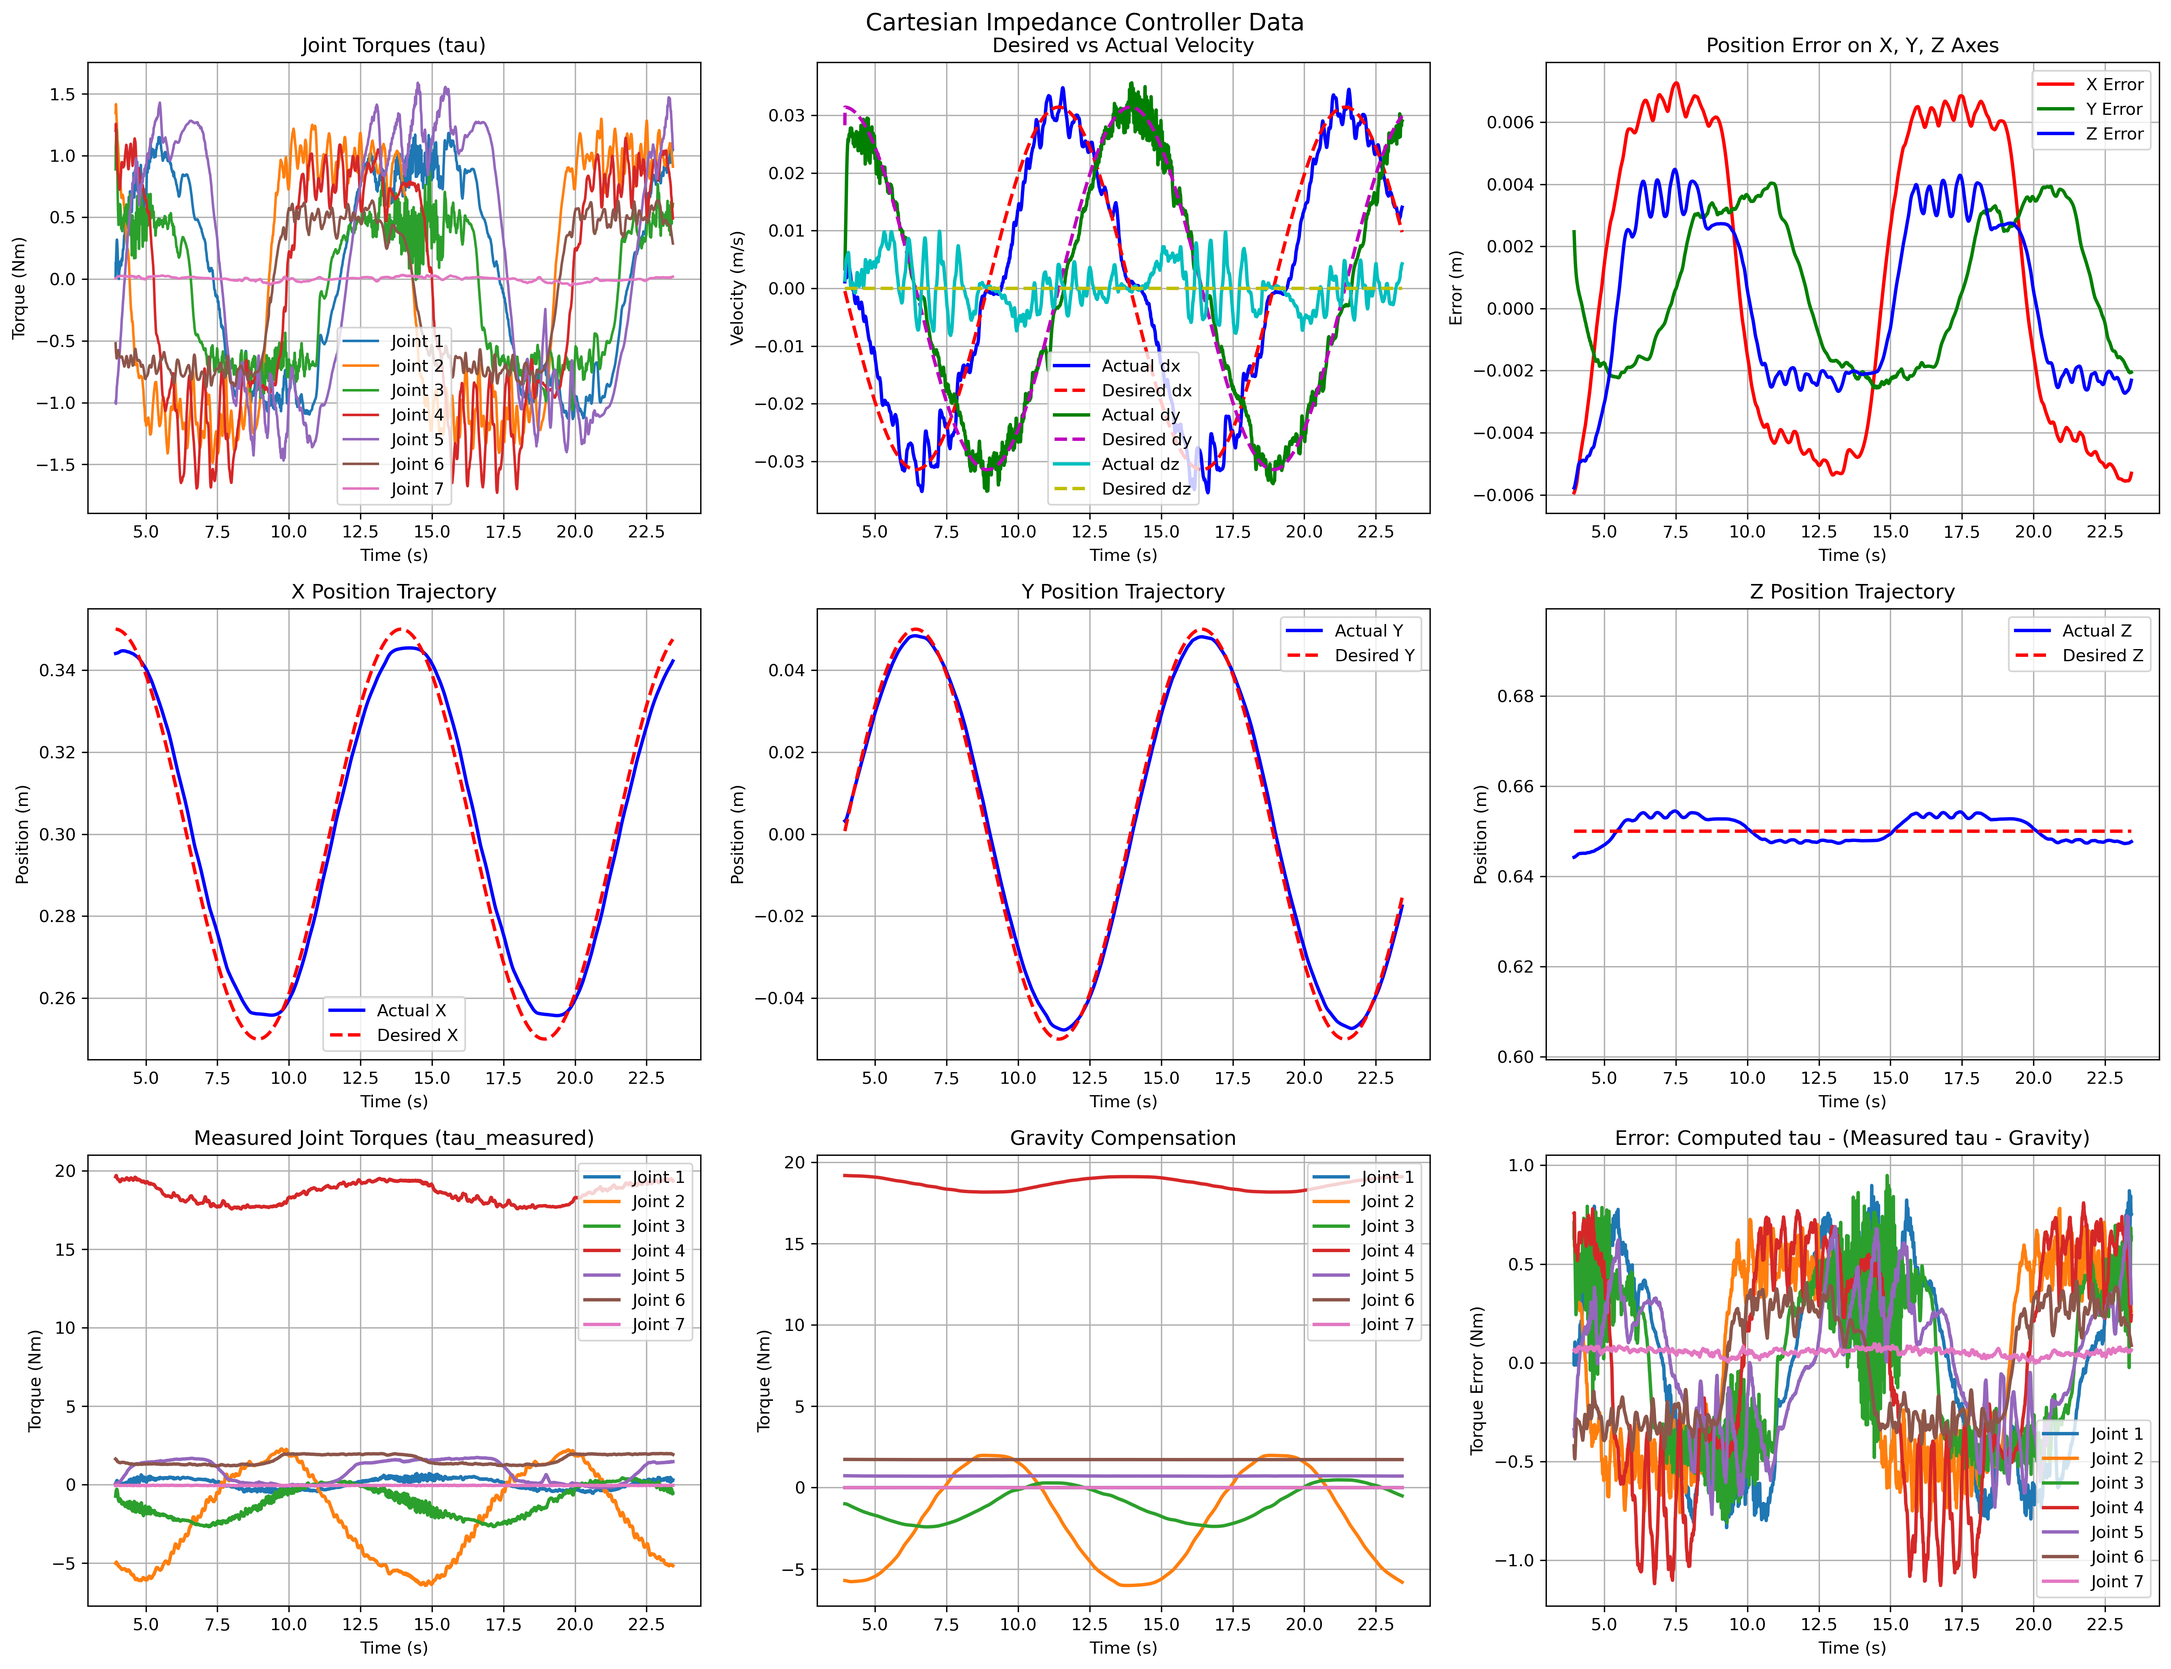
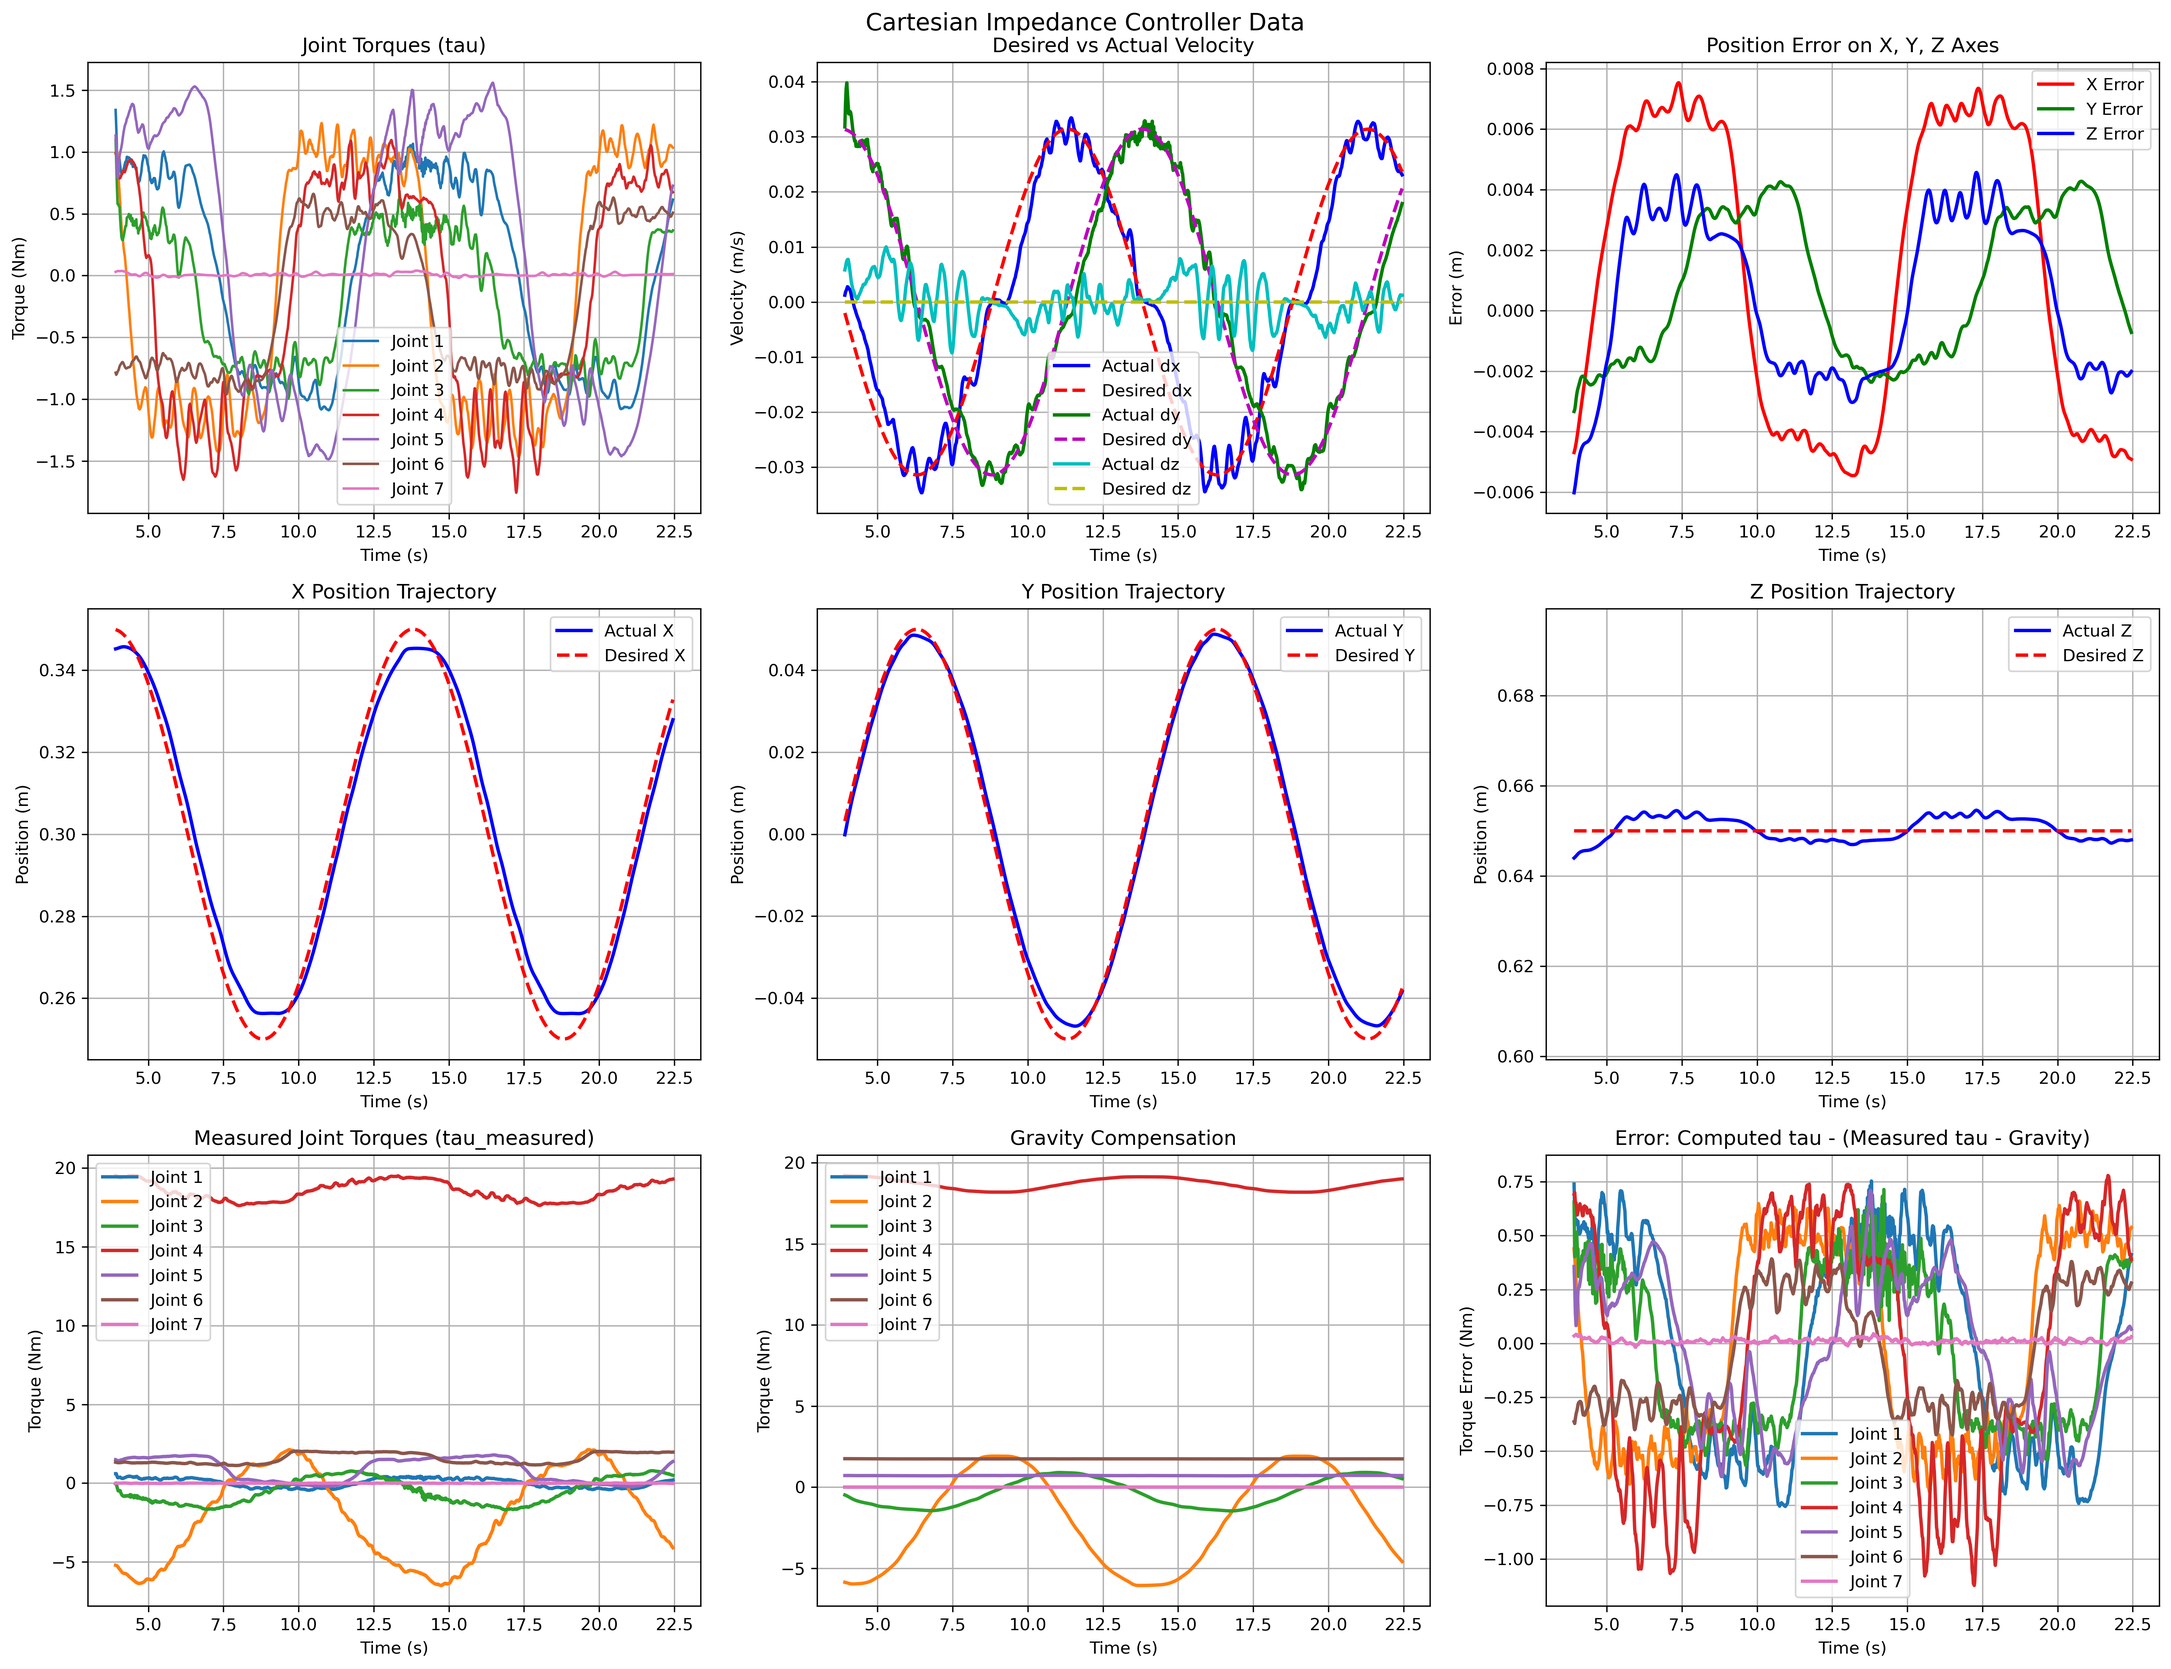
2025/12/03 debug finished, first demo completed

diff --git a/new_structure/py_controllers/py_controllers/gp_server.py b/new_structure/py_controllers/py_controllers/gp_server.py
@@ -69,12 +69,12 @@ class GPServer(Node):
             # =====================================================
             # 1) 当前预测
             # =====================================================
-            y_hat_current = self._gp_predict_vector(q, dq, ddq)
+            y_hat_current = self._gp_predict_vector(q, dq, ddq, tau, update = True)
 
             # =====================================================
             # 2) 主未来预测
             # =====================================================
-            y_hat_future = self._gp_predict_vector(q, dq_f, ddq_f)
+            y_hat_future = self._gp_predict_vector(q, dq_f, ddq_f, tau, update = False)
 
             # =====================================================
             # 3) 多采样 future 预测（逐个）
@@ -96,9 +96,9 @@ class GPServer(Node):
             # =====================================================
             # 设置 response
             # =====================================================
-            response.y_hat_current = y_hat_current.tolist()
+            response.y_hat_current = y_hat_future.tolist()
             response.y_hat_future  = y_hat_future.tolist()
-            response.y_hat_future_agg = y_future_agg.tolist()
+            response.y_hat_future_agg = y_hat_future.tolist()
 
         except Exception as e:
             self.get_logger().error(f"[GPServer] callback error: {e}")
@@ -113,9 +113,10 @@ class GPServer(Node):
     # ============================================================
     #  单个向量预测（不更新）
     # ============================================================
-    def _gp_predict_vector(self, q, dq, ddq):
+    def _gp_predict_vector(self, q, dq, ddq, tau_residual=None, update=False):
         """
-        对 7 个关节做预测（不做 online update）
+        对 7 个关节做预测
+        如果 do_update=True，则根据 tau_residual 对 "当前中心点" 做 online update
         """
         if not self.gp_ready:
             return np.zeros(7, dtype=float)
@@ -131,7 +132,7 @@ class GPServer(Node):
             Xm, Xs, Ym, Ys = pack["stats"]
             x_dim = pack["x_dim"]
 
-            # ---- 构建 x ----
+            # -------- 输入构造 ----------
             if x_dim == 3:
                 x = np.array([q[j-1], dq[j-1], ddq[j-1]], dtype=np.float32)
             elif x_dim == 2:
@@ -143,17 +144,38 @@ class GPServer(Node):
             Xs = np.asarray(Xs, dtype=np.float32)
             Ym = float(np.asarray(Ym)[0])
             Ys = float(np.asarray(Ys)[0])
+            Ys = Ys if Ys != 0 else 1.0
 
+            # -------- 标准化 ----------
             x_std = (x - Xm[:x_dim]) / Xs[:x_dim]
 
-            # ---- GP 预测 ----
-            mu_s, _ = model.predict(x_std.astype(np.float32))
+            # -------- GP 预测 ----------
+            mu_s, var_s = model.predict(x_std.astype(np.float32))
             mu = float(mu_s[0])
 
-            # ---- 去标准化 ----
-            y[j-1] = mu * Ys + Ym
+            y_pred = mu * Ys + Ym
+            y[j-1] = y_pred
+            print(1)
+            # -------- Online Update ----------
+            if update and tau_residual is not None:
+                print(2)
+                y_real = float(tau_residual[j-1])
+                y_std = (y_real - Ym) / Ys
+
+                if np.isfinite(y_std):
+                    try:
+                        model.add_point(
+                            x_std.astype(np.float32),
+                            np.array([y_std], dtype=np.float32)
+                        )
+                        print("updating")
+                    except Exception as e:
+                        self.get_logger().error(
+                            f"[GPServer] joint{j} online update failed: {e}"
+                        )
 
         return y
+
 
     # ==== 把你原来的这三个函数基本原样搬进来 ====
     def _ensure_skygp_import(self):
@@ -219,15 +241,15 @@ class GPServer(Node):
         per_joint_cfg = {
             "default": dict(
                 max_data_per_expert=100,
-                nearest_k=4,
-                max_experts=100,
+                nearest_k=2,
+                max_experts=8,
                 timescale=0.03,
             ),
             # 举例：如果你想让 6 号关节忘得快一点、专家少一点，可以单独改：
             6: dict(
                 max_data_per_expert=50,
-                nearest_k=4,
-                max_experts=50,
+                nearest_k=2,
+                max_experts=8,
                 timescale=0.05,
             ),
         }

diff --git a/new_structure/py_controllers/py_controllers/cartesian_impedance.py b/new_structure/py_controllers/py_controllers/cartesian_impedance.py
@@ -182,7 +182,7 @@ class CartesianImpedanceController(Node):
             '/future_task_space'
         )
         self.future_delay = self.declare_parameter(
-            'future_delay', 0.0  # 默认 60 ms
+            'future_delay', 0.025  # 默认 60 ms
         ).value
 
         # 存最新一次未来轨迹
@@ -361,7 +361,7 @@ class CartesianImpedanceController(Node):
             self.tau_residual_filtered = (
                 0.02 * tau_residual + 0.98 * self.tau_residual_filtered
             )
-            print("tau_residual:", tau_residual)
+            # print("tau_residual:", tau_residual)
 
             # === 控制：先用“上一帧”融合好的 y_hat_combined 做补偿 ===
             if self.gp_active:
@@ -403,6 +403,7 @@ class CartesianImpedanceController(Node):
 
                     # 2) 云端 GP：发异步请求（同一时刻的 q/dq/ddq/残差）
                     if self.gp_client.service_is_ready():
+                        # print("updating!!!!!!!!!!!!!!!!!")
                         req = AsyncGPpredict.Request()
                         req.q = self.q.astype(np.float32).tolist()
                         req.dq_des_joint = self.dq_des_joint.astype(np.float32).tolist()
@@ -512,7 +513,7 @@ class CartesianImpedanceController(Node):
 
             # === 在 callback 里做融合（本地 + 云端）===
             # 这里用 self.y_hat_local 是“同一次节拍”时算出的本地结果
-            alpha = 0   # 云/本地权重，可以 declare_parameter 出来
+            alpha = 0.5   # 云/本地权重，可以 declare_parameter 出来
             self.y_hat_combined = (
                 alpha * self.y_hat_local + (1.0 - alpha) * self.y_hat_cloud
             )
@@ -683,9 +684,9 @@ class CartesianImpedanceController(Node):
             y_hat[j-1] = y_pred_weighted
 
             # 额外打印调试信息
-            self.get_logger().info(
-                f"[GP-debug] joint {j}: μ={y_pred:.3f}, σ={sigma:.3f}, w={w:.3f} → weighted={y_pred_weighted:.3f}"
-            )
+            # self.get_logger().info(
+            #     # f"[GP-debug] joint {j}: μ={y_pred:.3f}, σ={sigma:.3f}, w={w:.3f} → weighted={y_pred_weighted:.3f}"
+            # )
 
             # === 3. 在线更新 ===
             y_real = float(tau_residual[j-1])
@@ -697,9 +698,9 @@ class CartesianImpedanceController(Node):
             if np.isfinite(y_std):
                 try:
                     model.add_point(x_std, np.array([y_std], dtype=np.float32))
-                    self.get_logger().info(
-                        f"[GP-debug] joint {j}: update ok (y_real={y_real:.4f}, y_std={y_std:.4f})"
-                    )
+                    # self.get_logger().info(
+                    #     f"[GP-debug] joint {j}: update ok (y_real={y_real:.4f}, y_std={y_std:.4f})"
+                    # )
                 except Exception as e:
                     self.get_logger().error(f"[GP-debug] joint {j}: add_point failed: {e}")
             else:
@@ -722,7 +723,7 @@ class CartesianImpedanceController(Node):
         # 以当前脚本为基准，找到 gp/skygp.py
         script_dir = os.path.dirname(os.path.abspath(__file__))
         skygp_path = os.path.abspath(os.path.join(
-            script_dir, "..","..", "..", "new_structure","gp", "skygp.py"
+            script_dir, "..","..", "..","..","..", "..", "new_structure","gp", "skygp.py"
         ))
 
         if not os.path.isfile(skygp_path):
